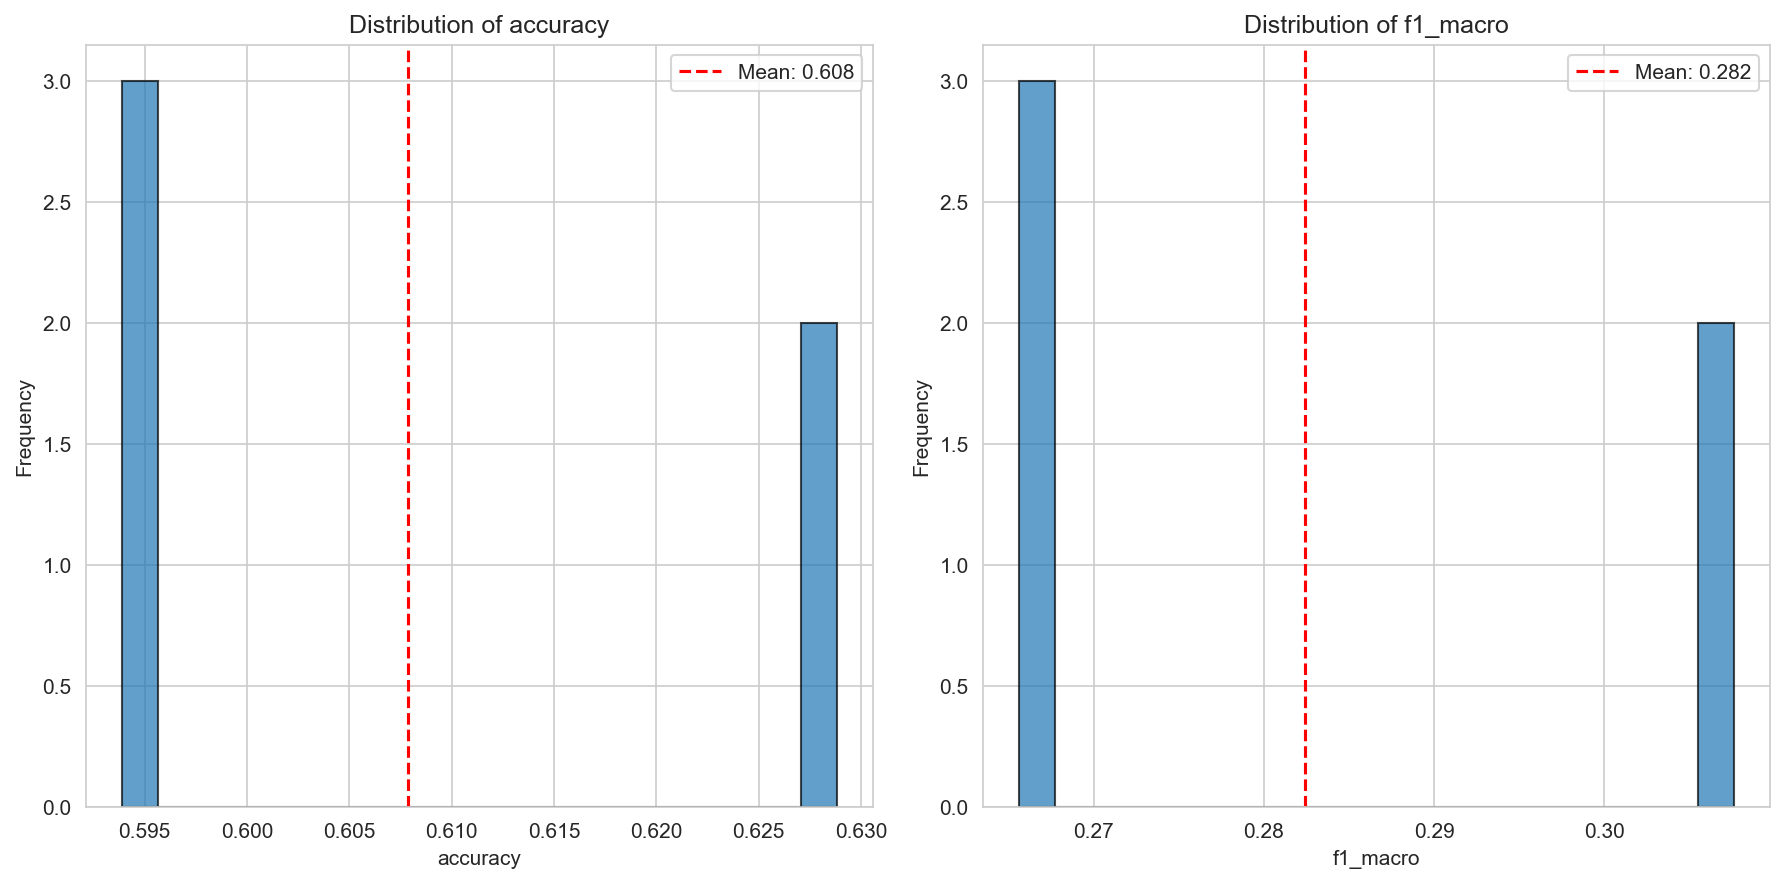
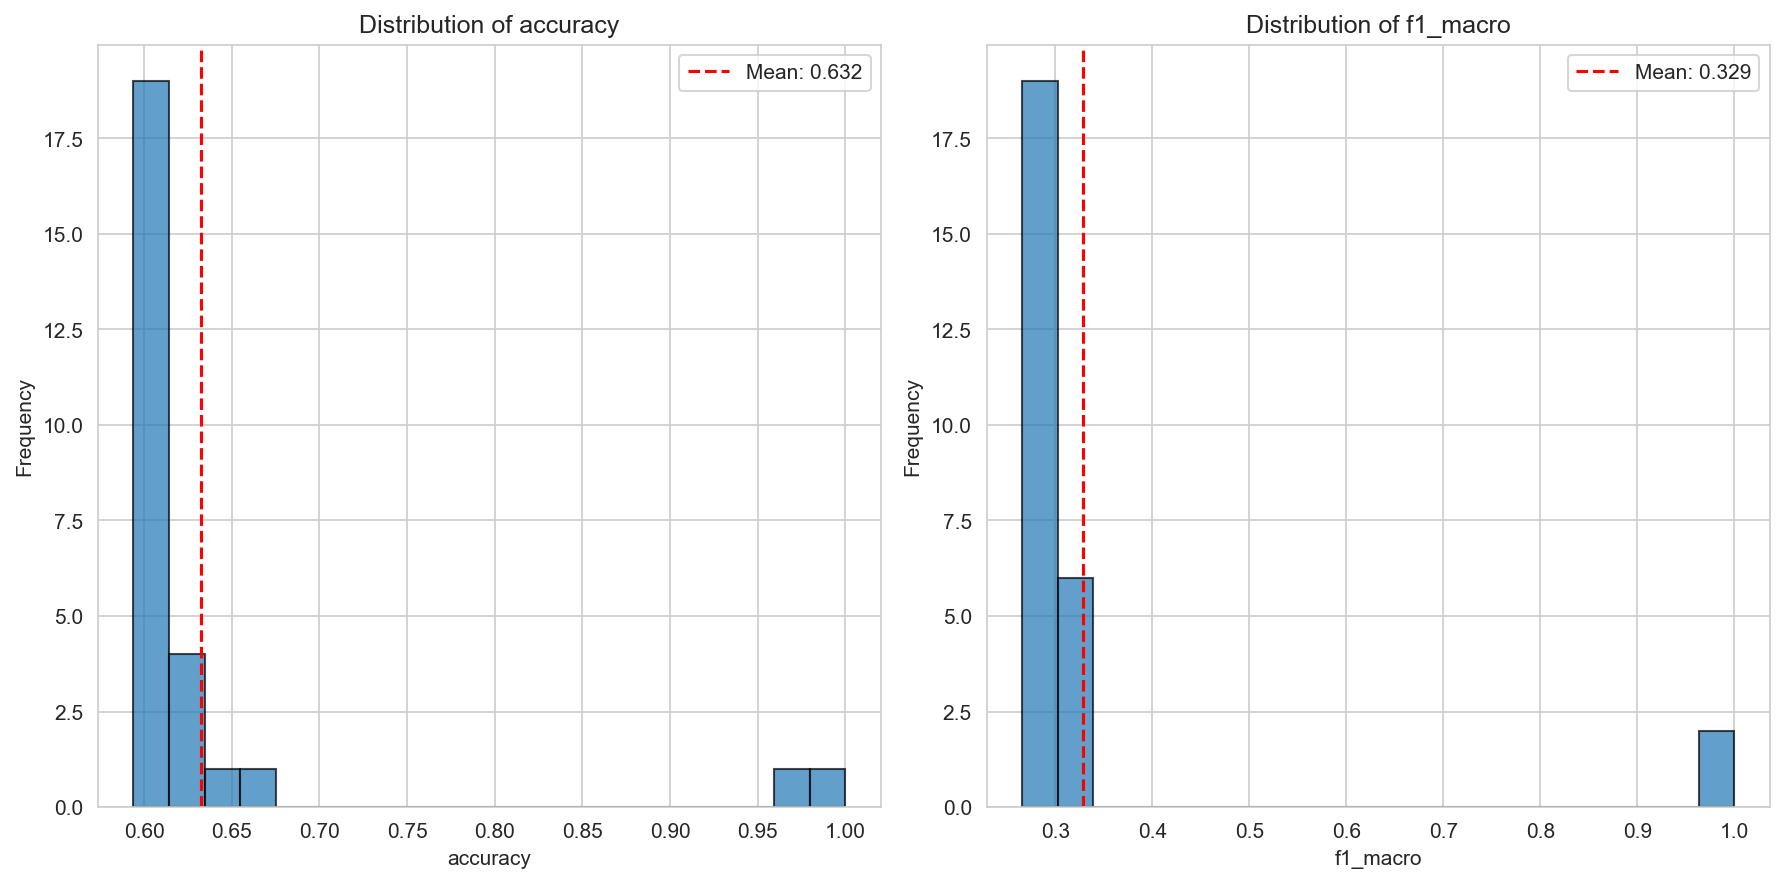
upd docs

diff --git a/reports/experiments/experiment_report.md b/reports/experiments/experiment_report.md
@@ -1,46 +1,46 @@
 # Отчет об экспериментах: wine-quality
 
-**Дата генерации:** 2025-12-12 11:41:09 UTC
+**Дата генерации:** 2026-01-18 15:41:41 UTC
 
-**Всего экспериментов:** 5
-**Успешных:** 5
+**Всего экспериментов:** 27
+**Успешных:** 27
 **Неудачных:** 0
 
 ## Общая статистика
 
 ### accuracy
 
-- **Среднее:** 0.6079
+- **Среднее:** 0.6325
 - **Медиана:** 0.5939
-- **Стандартное отклонение:** 0.0191
+- **Стандартное отклонение:** 0.1037
 - **Минимум:** 0.5939
-- **Максимум:** 0.6288
+- **Максимум:** 1.0000
 
 ### f1_macro
 
-- **Среднее:** 0.2824
+- **Среднее:** 0.3288
 - **Медиана:** 0.2656
-- **Стандартное отклонение:** 0.0230
+- **Стандартное отклонение:** 0.1903
 - **Минимум:** 0.2656
-- **Максимум:** 0.3076
+- **Максимум:** 1.0000
 
 ## Топ 5 моделей по метрикам
 
 ### accuracy
 
-- **random-forest-20251212-093220**: 0.6288
-- **random-forest-20251212-093218**: 0.6288
-- **baseline-20251212-112045**: 0.5939
-- **baseline-20251212-102423**: 0.5939
-- **baseline-20251212-092047**: 0.5939
+- **baseline-20260116-102326**: 1.0000
+- **baseline-20260116-104334**: 0.9722
+- **svm-20260116-175129**: 0.6594
+- **random-forest-20260116-203203**: 0.6463
+- **random-forest-20260116-203154**: 0.6288
 
 ### f1_macro
 
-- **random-forest-20251212-093220**: 0.3076
-- **random-forest-20251212-093218**: 0.3076
-- **baseline-20251212-112045**: 0.2656
-- **baseline-20251212-102423**: 0.2656
-- **baseline-20251212-092047**: 0.2656
+- **baseline-20260116-102326**: 1.0000
+- **baseline-20260116-104334**: 0.9718
+- **svm-20260116-175129**: 0.3150
+- **random-forest-20260116-203203**: 0.3146
+- **random-forest-20260116-203154**: 0.3076
 
 ## Сравнительная таблица
 
